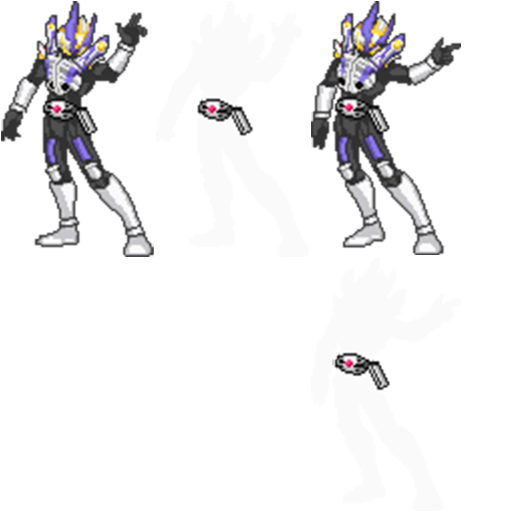
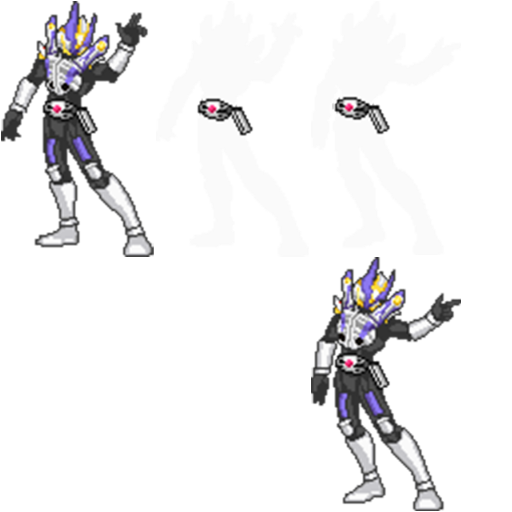
更新电王动画

Changed region(s): [[0.5938, 0.0, 0.9062, 1.0]]

diff --git a/src/main/java/dcdmod/Card/Basic/Decade_Attack.java b/src/main/java/dcdmod/Card/Basic/Decade_Attack.java
@@ -4,7 +4,6 @@ import java.util.ArrayList;
 import java.util.List;
 
 import com.megacrit.cardcrawl.actions.AbstractGameAction;
-import com.megacrit.cardcrawl.actions.animations.VFXAction;
 import com.megacrit.cardcrawl.actions.common.ApplyPowerAction;
 import com.megacrit.cardcrawl.actions.common.DamageAction;
 import com.megacrit.cardcrawl.cards.AbstractCard;
@@ -19,8 +18,6 @@ import basemod.helpers.TooltipInfo;
 import dcdmod.DCDmod;
 import dcdmod.Patches.AbstractCardEnum;
 import dcdmod.Patches.AbstractCustomCardWithType;
-import dcdmod.Vfx.DenO_henshin_SoundsAndAnimation;
-import dcdmod.Vfx.DenO_kotaewa_kiite_nai;
 
 
 public class Decade_Attack extends AbstractCustomCardWithType{
@@ -59,7 +56,7 @@ public class Decade_Attack extends AbstractCustomCardWithType{
 			AbstractDungeon.actionManager.addToBottom(new ApplyPowerAction(m, m, new VulnerablePower(m, this.magicNumber, false), this.magicNumber));
 		}
 		//AbstractDungeon.actionManager.addToTop(new VFXAction(new DenO_henshin_SoundsAndAnimation(p.drawX, p.drawY), 6.0F));
-		AbstractDungeon.actionManager.addToTop(new VFXAction(new DenO_kotaewa_kiite_nai(), 2.1F));
+		//AbstractDungeon.actionManager.addToTop(new VFXAction(new DenO_kotaewa_kiite_nai(), 2.5F));
 	}
 	
 	@Override

diff --git a/src/main/java/dcdmod/Vfx/DenO_kotaewa_kiite_nai.java b/src/main/java/dcdmod/Vfx/DenO_kotaewa_kiite_nai.java
@@ -22,6 +22,7 @@ public class DenO_kotaewa_kiite_nai extends AbstractGameEffect {
 	private float y;
 	private Texture img = null;
 	boolean start = true;
+	boolean A1 = true;
 
 	public DenO_kotaewa_kiite_nai() {
 		if (this.img == null) {
@@ -30,14 +31,14 @@ public class DenO_kotaewa_kiite_nai extends AbstractGameEffect {
 
 		this.x = AbstractDungeon.player.drawX;
 		this.y = AbstractDungeon.player.drawY;
-		this.duration = 2.1F;//倒数时间
-		this.startingDuration = 2.1F;//持续时间
+		this.duration = 2.5F;//倒数时间
+		this.startingDuration = 2.5F;//持续时间
 		this.color = Color.WHITE.cpy();
 	}
 
 	public void update() {
 		this.duration -= Gdx.graphics.getDeltaTime();
-		if (this.duration < 0.6F) {
+		if (this.duration < 1.0F) {
 			if(start) {
 				final Decade Decade = (Decade)AbstractDungeon.player;
 				Decade.Trickster(69);//切换模型
@@ -57,6 +58,10 @@ public class DenO_kotaewa_kiite_nai extends AbstractGameEffect {
 	public void render(SpriteBatch sb) {
 		sb.setColor(this.color);
 		sb.draw(this.img, this.x, this.y);
+		if(A1){
+			CardCrawlGame.sound.playA("attackride", 0.0f);
+			A1 = false;
+		}
 	}
 
 	public void dispose() {

diff --git a/src/main/java/dcdmod/DCDmod.java b/src/main/java/dcdmod/DCDmod.java
@@ -337,7 +337,7 @@ public class DCDmod implements PostInitializeSubscriber,EditCharactersSubscriber
     	reflectedMap.put("agito_BGM2", new Sfx("sounds/agito_BGM2.mp3"));
     	reflectedMap.put("faiz_BGM2", new Sfx("sounds/agito_BGM2.mp3"));
         reflectedMap.put("deno_henshin", new Sfx("sounds/deno_henshin.wav"));
-        reflectedMap.put("deno_kotaewa_kiite_nai", new Sfx("deno_kotaewa_kiite_nai.mp3"));
+        reflectedMap.put("deno_kotaewa_kiite_nai", new Sfx("sounds/deno_kotaewa_kiite_nai.mp3"));
 
 	}
     
